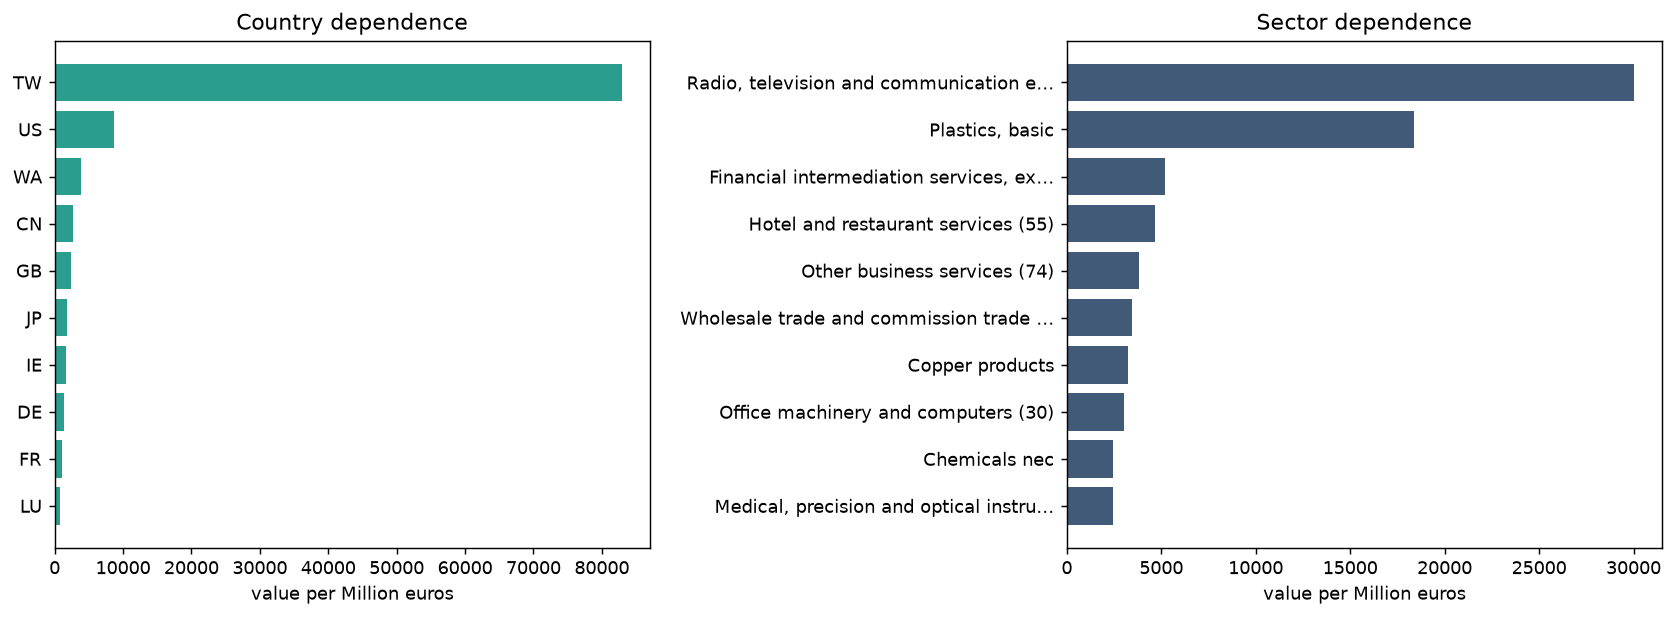
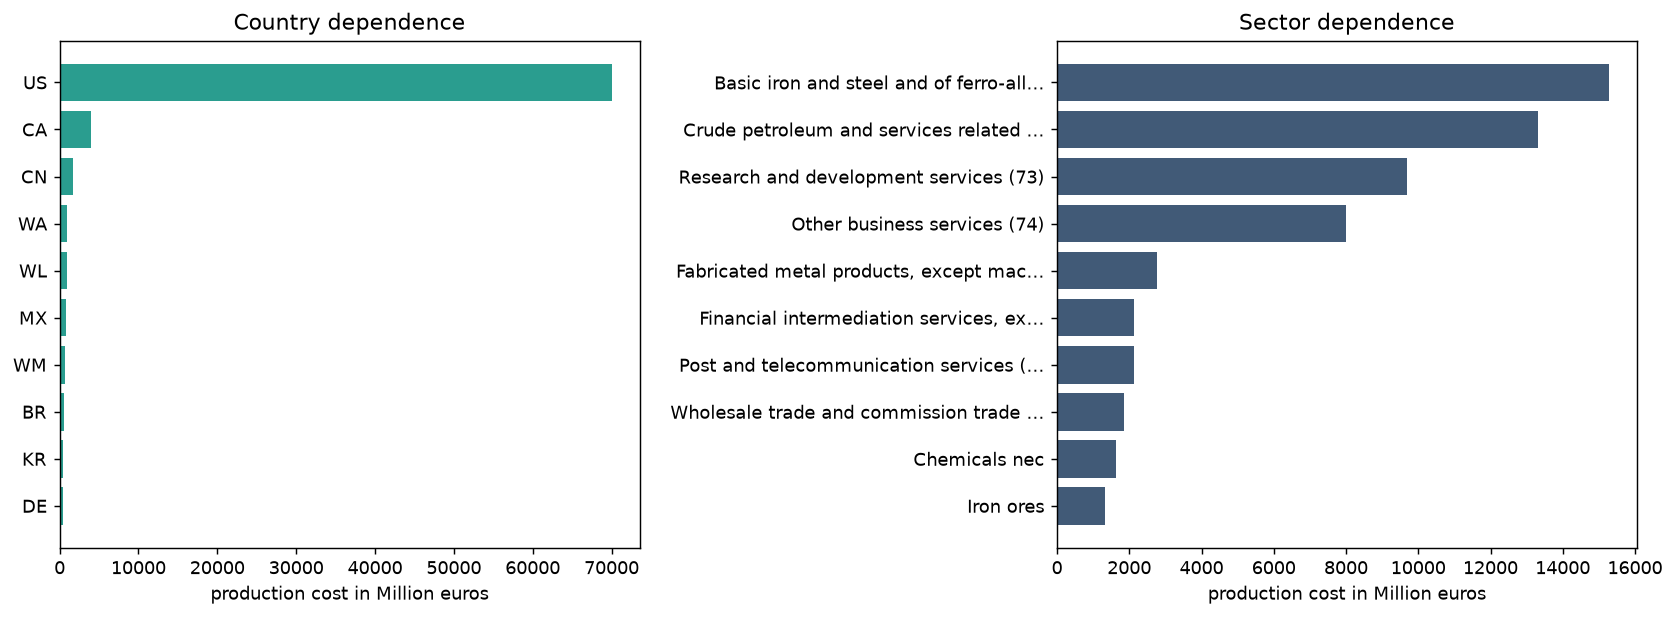
fix: link to example analysis

diff --git a/fund_analyzer/services/analysis_renderer.py b/fund_analyzer/services/analysis_renderer.py
@@ -50,7 +50,7 @@ class DependenceViz:
         ax2.barh(self._trim(sk), sv, color=self.SECTOR_COLOR)
         ax2.set_title("Sector dependence")
         for ax in (ax1, ax2):
-            ax.set_xlabel("value per Million euros")
+            ax.set_xlabel("production cost in Million euros")
         fig.suptitle(self.company_name, fontsize=13, weight="bold")
         fig.tight_layout()
         return fig

diff --git a/README.md b/README.md
@@ -15,7 +15,7 @@
 
 A small Django project for analyzing a company's sectoral dependencies using SEC and EXIOBASE data.
 
-The goal was to compute the full upstream sectoral dependencies of a company, then aggregate them to analyze portfolios.
+The goal was to compute the full (direct + indirect) upstream sectoral dependencies of a company, then aggregate them to analyze portfolios. Note that it's adding upstream costs, 
 
 The intended workflow:
 
@@ -60,5 +60,16 @@ python manage.py analyse_company 1045810 --output dependence.png
 ```
 
 The command accepts either a 10-digit CIK or a shorter numeric value, and generates a dependency chart for that company.
+
 Example of Nvidia analysis:
-![Dependency chart](dependence_simple.png)
+> **Reading the chart:** each bar is a *total* upstream requirement, 
+> not a share of a total. 
+>
+> Values overlap by construction — the 
+> semiconductor bar already contains the plastics used to make those 
+> semiconductors, which also appear in the plastics bar.
+>
+> **Do not sum the bars.** The sum exceeds the company's actual 
+> spending, often by a large factor. Compare bars against each other, 
+> never against the total.
+![Dependency chart](dependence_example.png)
